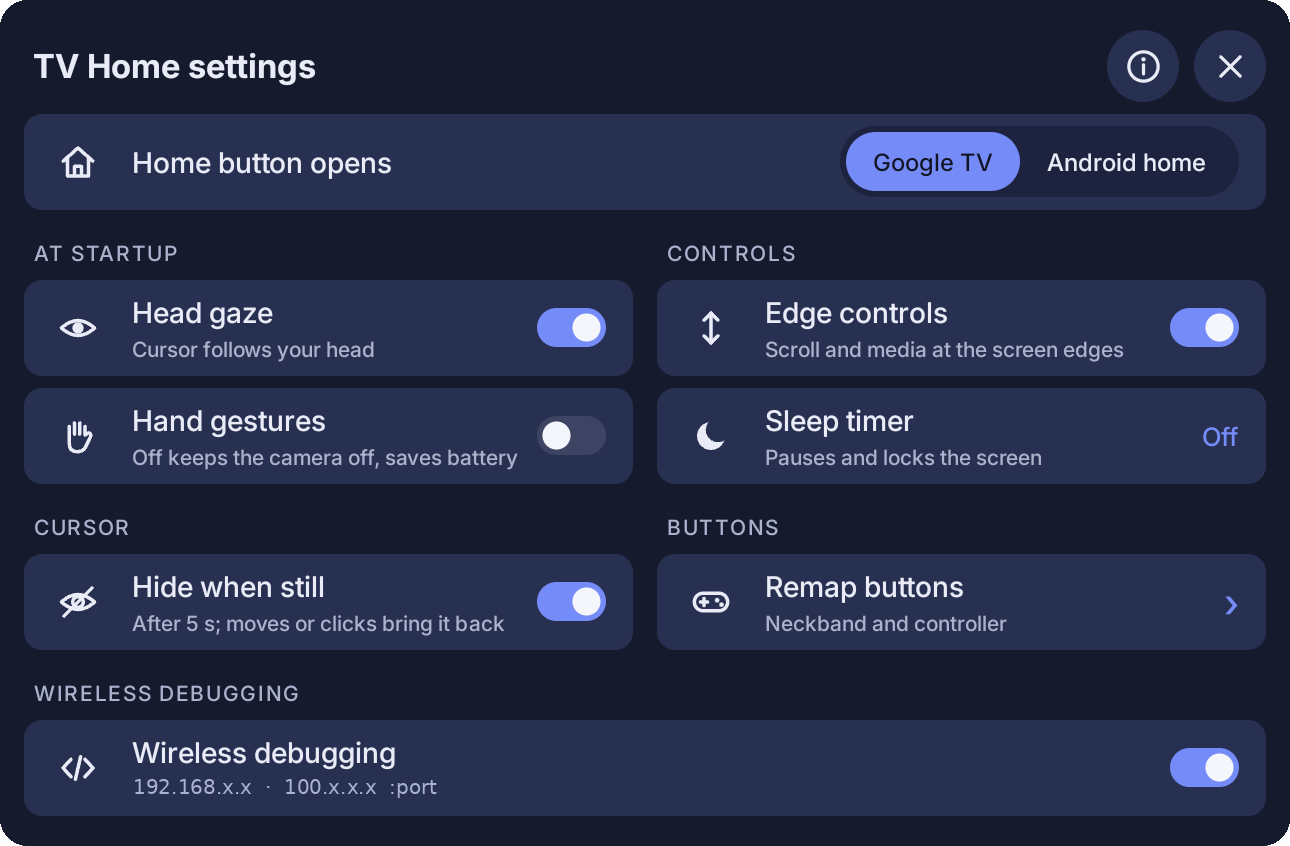
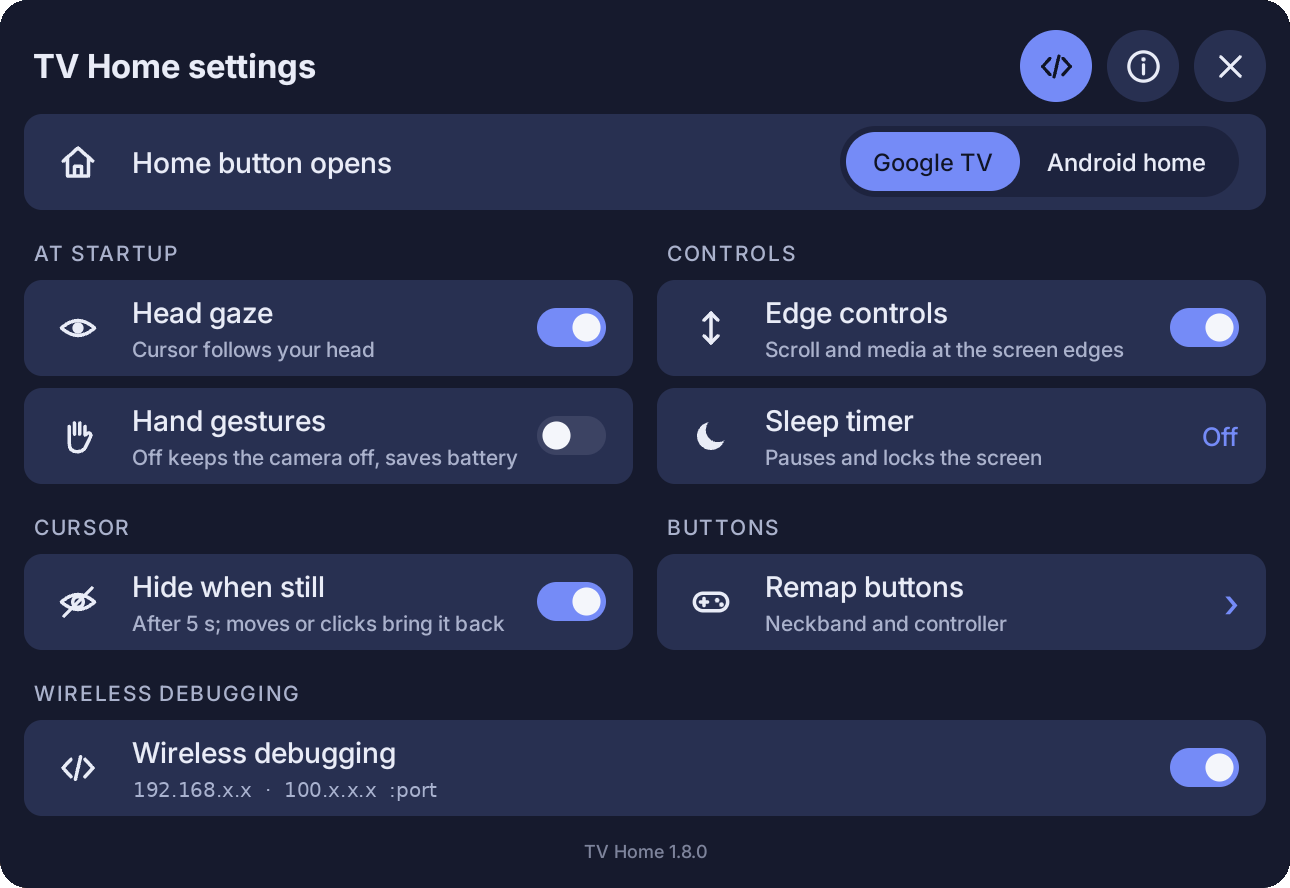
WIP TV Home 1.8.0: </> shows the Wireless debugging row; version footer
The Wireless debugging row is hidden by default and shown with the </>
button in the header; it changes only what TV Home shows, not Android's
Developer options. Small version label at the bottom of the popup.

Claude-Session: https://claude.ai/code/session_01VUf44TcDJLfxdnnXui99Bk

diff --git a/tvhome/src/com/hoang/vhome/ControlService.java b/tvhome/src/com/hoang/vhome/ControlService.java
@@ -429,6 +429,19 @@ public class ControlService extends AccessibilityService {
         t.setPadding(dp(back ? 10 : 6), 0, 0, 0);
         head.addView(t, new LinearLayout.LayoutParams(0, LinearLayout.LayoutParams.WRAP_CONTENT, 1));
         if (headerAbout) {
+            // shows or hides TV Home's own Wireless debugging row; Android's Developer options are untouched
+            boolean dev = Prefs.getInt(this, Prefs.DEV_MODE, 0) == 1;
+            TextView devBtn = iconButton(Icon.DEBUG, v -> { Prefs.putInt(this, Prefs.DEV_MODE, dev ? 0 : 1); pageMain(); });
+            if (dev) {
+                devBtn.setBackground(round(ACCENT, 999));
+                Icon d = new Icon(Icon.DEBUG, 0xFF0F1426, ACCENT);
+                d.setBounds(0, 0, dp(26), dp(26));
+                devBtn.setCompoundDrawablesRelative(d, null, null, null);
+            }
+            devBtn.setContentDescription(dev ? "Hide Wireless debugging" : "Show Wireless debugging");   // TV Home only, not Android's Developer options
+            LinearLayout.LayoutParams dl = new LinearLayout.LayoutParams(dp(48), dp(48));
+            dl.setMarginEnd(dp(10));
+            head.addView(devBtn, dl);
             LinearLayout.LayoutParams al = new LinearLayout.LayoutParams(dp(48), dp(48));
             al.setMarginEnd(dp(10));
             head.addView(iconButton(Icon.INFO, v -> pageAbout()), al);
@@ -532,7 +545,10 @@ public class ControlService extends AccessibilityService {
         buttons.setOnClickListener(v -> pageButtons());
         target.addView(buttons, cellLp());
 
-        // full width under both columns: Wireless debugging, with room for every address
+        // full width under both columns, only in developer mode (the </> button in the header)
+        h.removeCallbacks(refreshAdb);
+        adbLine = null;
+        if (Prefs.getInt(this, Prefs.DEV_MODE, 0) != 1) { footer(); return; }
         target = body;
         section("Wireless debugging");
         LinearLayout adb = cell(Icon.DEBUG, "Wireless debugging", adbText(), toggle(Net.adbWifiOn(this), on -> {
@@ -545,6 +561,18 @@ public class ControlService extends AccessibilityService {
         h.removeCallbacks(refreshAdb);
         h.post(refreshAdb);
         if (Net.adbWifiOn(this) && Net.adbPort() == 0 && !portTried) h.postDelayed(this::readPortBehind, 300);
+        footer();
+    }
+
+    /** Small version label at the bottom of the settings popup. */
+    private void footer() {
+        String v = "";
+        try { v = getPackageManager().getPackageInfo(getPackageName(), 0).versionName; } catch (Exception ignored) { }
+        TextView t = text("TV Home " + v, 12, DIM);
+        t.setGravity(Gravity.CENTER);
+        t.setAlpha(0.7f);
+        t.setPadding(0, dp(10), 0, 0);
+        body.addView(t, new LinearLayout.LayoutParams(LinearLayout.LayoutParams.MATCH_PARENT, LinearLayout.LayoutParams.WRAP_CONTENT));
     }
 
     interface Toggler { boolean set(boolean on); }

diff --git a/tvhome/src/com/hoang/vhome/Prefs.java b/tvhome/src/com/hoang/vhome/Prefs.java
@@ -19,6 +19,7 @@ final class Prefs {
     static final String ADB_WIFI = "adb_wifi_enabled";
     static final String EDGE = "vnd_edge_controls";              // 1 (default): edge scrollbar and media bar
     static final String HOME_MODE = "vnd_home_mode";             // 0 (default): Home opens Google TV first; 1: the Android home first
+    static final String DEV_MODE = "vnd_dev_mode";               // 1: show developer rows (Wireless debugging); 0 by default
     static final String HIDE_CURSOR = "vnd_hide_cursor";         // 1 (default): hide the cursor after 5 s without moving
 
     // Button actions

diff --git a/README.md b/README.md
@@ -407,7 +407,8 @@ The panel stays open until you **click outside it**, **click the ☰ button agai
 | **Home button opens** | *Google TV* (default) or *Android home*. Home opens the one you choose; pressing Home again while it is in front opens the other |
 | **At startup: Head gaze** | On by default. Switch it off if you prefer to start without head tracking |
 | **At startup: Hand gestures** | On is Viture's default. Off switches the gesture camera off at once and keeps it off after every restart, the biggest single battery saving (the same flag `apply gestures` sets) |
-| **Wireless debugging** | Switches it on or off now; the line below shows the neckband's addresses (Wi-Fi first, then VPN such as Tailscale) and the port. Android does not let apps read the port, so TV Home briefly opens the system Wireless debugging page behind the popup, reads its "IP address & Port" line and steps back. It also picks the port up whenever you open that page yourself |
+| **`</>`** (top right) | Shows or hides the Wireless debugging row below. Hidden by default, since everyday users never need it. It only changes what TV Home shows: Android's Developer options and Wireless debugging itself are not touched |
+| **Wireless debugging** (with `</>` on) | Switches it on or off now; the line below shows the neckband's addresses (Wi-Fi first, then VPN such as Tailscale) and the port. Android does not let apps read the port, so TV Home briefly opens the system Wireless debugging page behind the popup, reads its "IP address & Port" line and steps back (only while the row is shown). It also picks the port up whenever you open that page yourself |
 | *(advanced)* Wireless debugging after the next restart | `adb shell settings put global vnd_adb_next_boot 1` before rebooting: TV Home turns it on once after the restart and shows the new address and port on screen |
 | **Cursor: Hide when still** | On by default; see below |
 | **Controls: Edge controls** | On by default; see below |

diff --git a/CHANGELOG.md b/CHANGELOG.md
@@ -4,7 +4,7 @@
 
 - TV Home 1.8.0: hide the head-gaze cursor after 5 seconds without moving (Settings, Cursor, on by default). Head tremor is tolerated: positions are smoothed and only a move beyond about 28 dp, or a quick turn, brings the cursor back. A click while hidden reveals it and is passed on to the app.
 - Media bar: pressing a button no longer closes it; the edge controls close 2 seconds after the cursor leaves them.
-- Settings: new full-width **Home button opens** row on top (Google TV or Android home; Home again opens the other); new Cursor section; Wireless debugging is a full-width row under the two columns.
+- Settings: new full-width **Home button opens** row on top (Google TV or Android home; Home again opens the other); new Cursor section; Wireless debugging is a full-width row under the two columns, shown only after pressing `</>` in the header (hidden by default; this does not change Android's Developer options); small version label at the bottom.
 
 ## 1.7.0 (2026-10-30)
 
